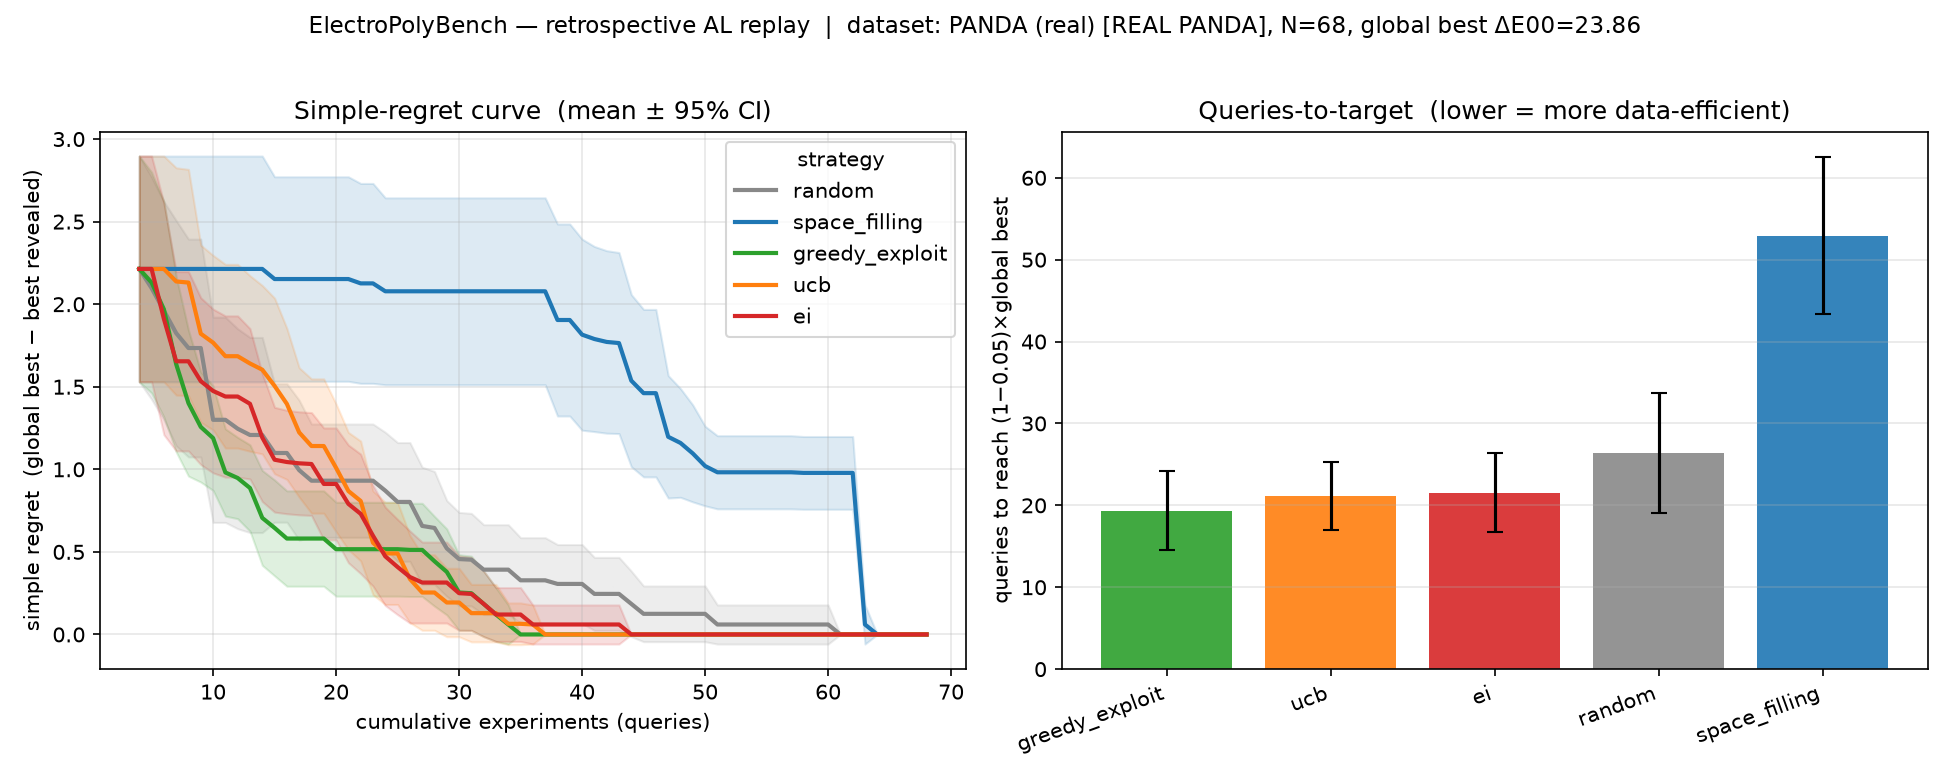
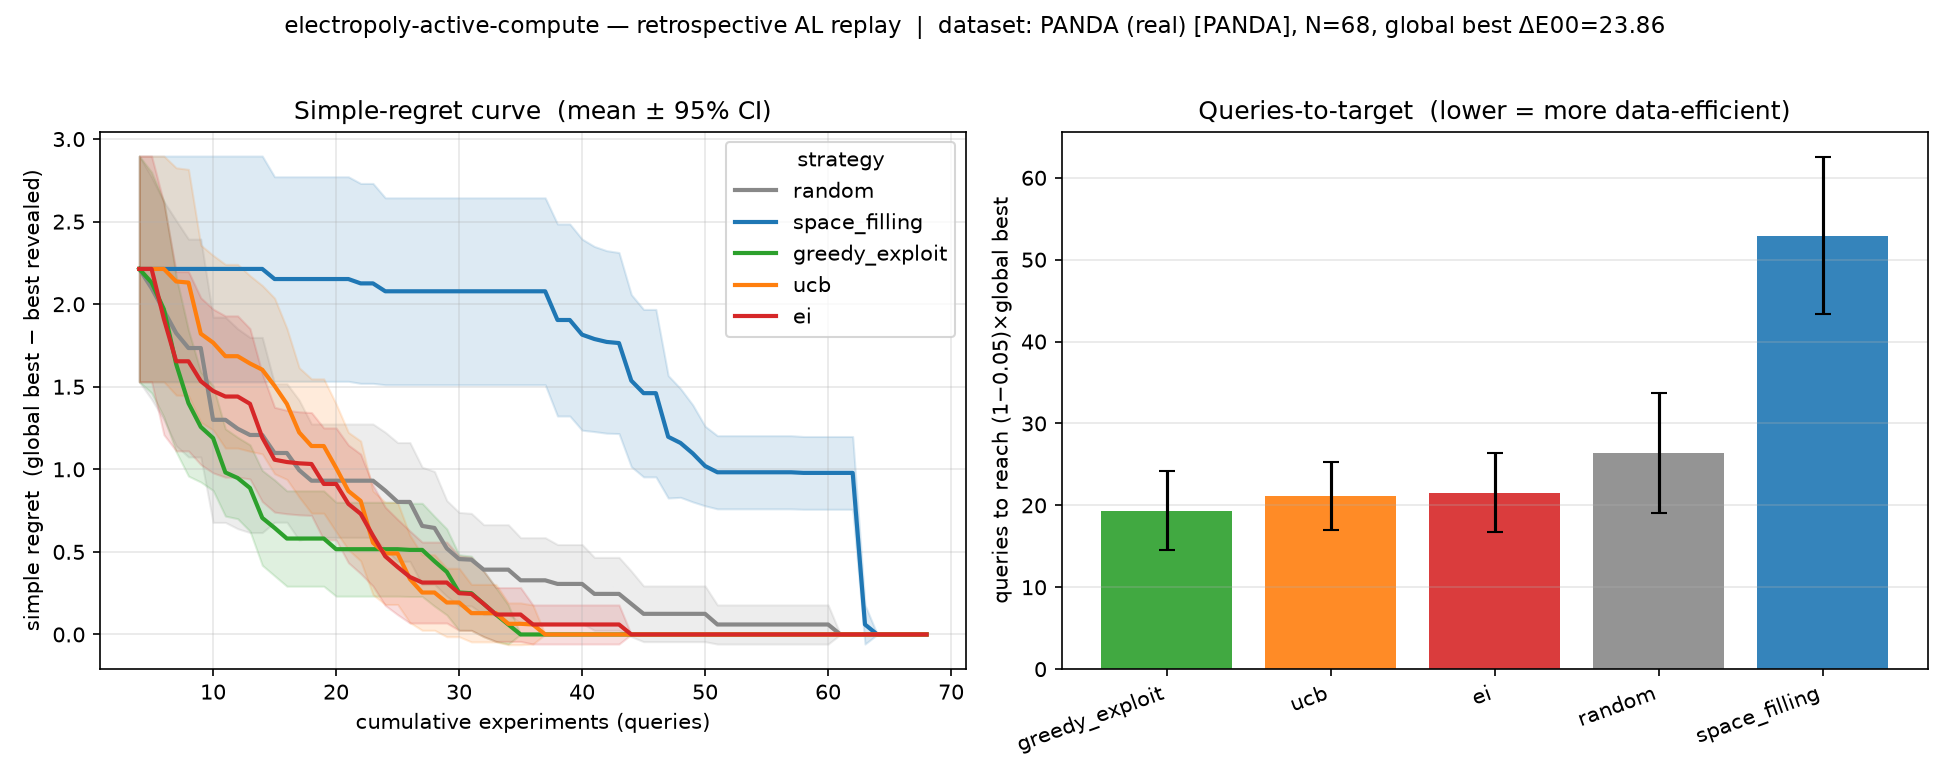
Synchronize renamed repository references

Changed region(s): [[0.1538, 0.0, 0.8615, 0.0615]]

diff --git a/experiments/run_panda_replay.py b/experiments/run_panda_replay.py
@@ -153,7 +153,7 @@ def plot_headline(long_df, summary, global_best, info, out_png, eps=0.05):
     plt.setp(ax_right.get_xticklabels(), rotation=20, ha="right")
 
     tag = "PANDA" if info["is_real"] else "SYNTHETIC"
-    fig.suptitle(f"ElectroPolyBench — retrospective AL replay  |  dataset: {info['name']} "
+    fig.suptitle(f"electropoly-active-compute — retrospective AL replay  |  dataset: {info['name']} "
                  f"[{tag}], N={info['n']}, global best ΔE00={global_best:.2f}",
                  fontsize=11)
     fig.tight_layout(rect=[0, 0, 1, 0.96])

diff --git a/src/electropolybench/__init__.py b/src/electropolybench/__init__.py
@@ -1,4 +1,4 @@
-"""ElectroPolyBench: retrospective active-learning replay for electropolymerization experiments."""
+"""electropoly-active-compute: retrospective active-learning replay for electropolymerization experiments."""
 
 from . import acquisitions, metrics, replay, surrogates
 

diff --git a/data/__init__.py b/data/__init__.py
@@ -1,4 +1,4 @@
-"""Dataset loaders for ElectroPolyBench."""
+"""Dataset loaders for electropoly-active-compute."""
 
 from .loaders import (
     INPUT_COLUMNS,

diff --git a/data/loaders.py b/data/loaders.py
@@ -1,4 +1,4 @@
-"""Dataset loaders for ElectroPolyBench.
+"""Dataset loaders for electropoly-active-compute.
 
 Available sources:
 

diff --git a/THINK.md b/THINK.md
@@ -7,7 +7,7 @@ judgment, a tradeoff, or a sign-off — NOT routine engineering debt (those stay
 Entries are opened, updated as thinking evolves, and marked `decided`/`parked` with a resolution;
 this file is neither a snapshot nor append-only.
 
-_Last updated: 2026-06-19 (v1 seed session)_
+_Research entries: 2026-06-19; repository names and navigation updated 2026-11-13._
 
 ## How to read this
 
@@ -23,7 +23,7 @@ resolution is.
 | T3 | Pool replay measures the wrong optimum (measured pool vs continuous surface) | open | self (rigor) | conceptual |
 | T4 | Which datasets to add for v2 | open | group-meeting | lit/data-curation |
 | T5 | sklearn GP now vs BoTorch/Ax (principled + multi-objective BO) | exploring (staged) | group-meeting | compute/eng |
-| T6 | Multi-fidelity low-fidelity layer — GATED on CombHTS xTB→DFT Fit-1 R² | parked (gated) | PI sign-off | compute-heavy |
+| T6 | Multi-fidelity low-fidelity layer — GATED on electropoly-jointopt-hts xTB→DFT Fit-1 R² | parked (gated) | PI sign-off | compute-heavy |
 | T7 | Is a GP well-posed on a 4-point seed? surrogate choice for tiny data | open | self (rigor) | one compute sweep |
 | T8 | Is space_filling a fair baseline, or a strawman? | exploring | group-meeting | scope/policy |
 
@@ -46,7 +46,7 @@ resolution is.
   AL-vs-baseline as the only durable v1 claim.
 - **Resolves when**: a seed/restart sweep is run and STATUS/README state the ranking only at the
   resolution the CIs actually support.
-- **Links**: [STATUS open debt #5](STATUS.md#open-debts); [experiments/run_panda_replay.py](experiments/run_panda_replay.py).
+- **Links**: [Archived status debt #5](docs/history/status-before-2026-11-11.md#open-debts); [experiments/run_panda_replay.py](experiments/run_panda_replay.py).
 
 ## T2 — What "queries-to-target" should target
 - **Status**: exploring
@@ -97,7 +97,7 @@ resolution is.
   queries-to-target as continuous-surface regret.
 - **Resolves when**: the caveat is documented (done in STATUS) AND the LHS-only-vs-full-pool
   control is run to bound the AL-collected-pool selection effect.
-- **Links**: [STATUS scientific caution](STATUS.md#scientific-caution); [data/loaders.py](data/loaders.py) (the `source` column distinguishes training/LHS vs AL points).
+- **Links**: [Archived scientific caution](docs/history/status-before-2026-11-11.md#scientific-caution); [data/loaders.py](data/loaders.py) (the `source` column distinguishes training/LHS vs AL points).
 
 ## T4 — Which datasets to add for v2
 - **Status**: open
@@ -119,7 +119,7 @@ resolution is.
   REAL on-domain point; keep PANDA as the flagship real dataset.
 - **Resolves when**: the group confirms the 2nd/3rd datasets and their order, and each lands as a
   loader with documented provenance.
-- **Links**: [STATUS open debt #1](STATUS.md#open-debts); [README v2 roadmap](README.md#v2-roadmap).
+- **Links**: [Archived status debt #1](docs/history/status-before-2026-11-11.md#open-debts); [Current remaining work](STATUS.md#remaining-work).
 
 ## T5 — sklearn GP now vs BoTorch/Ax (principled + multi-objective BO)
 - **Status**: exploring (staged: sklearn now, BoTorch later)
@@ -141,9 +141,11 @@ resolution is.
   opt-in, justified primarily by multi-objective / multi-fidelity, not by single-objective AL.
 - **Resolves when**: the group agrees BoTorch is warranted (i.e. the multi-objective question is
   in scope) and the BoTorch path first reproduces the sklearn single-objective result.
-- **Links**: [STATUS open debt #2](STATUS.md#open-debts); [pyproject.toml](pyproject.toml) (`[project.optional-dependencies] v2`); [T6](#t6--multi-fidelity-low-fidelity-layer--gated-on-combhts-xtbdft-fit-1-r).
+- **Links**: [Archived status debt #2](docs/history/status-before-2026-11-11.md#open-debts); [pyproject.toml](pyproject.toml) (current optional dependencies; the proposed `v2` extra is not implemented); [T6](#t6-multi-fidelity-gate).
 
-## T6 — Multi-fidelity low-fidelity layer — GATED on CombHTS xTB→DFT Fit-1 R²
+<a id="t6-multi-fidelity-gate"></a>
+
+## T6 — Multi-fidelity low-fidelity layer — GATED on electropoly-jointopt-hts xTB→DFT Fit-1 R²
 - **Status**: parked (gated on an external result)
 - **Forum**: PI sign-off
 - **Cost**: compute-heavy
@@ -151,20 +153,20 @@ resolution is.
   OMG-pretrained features, or a cheap computed descriptor — used to triage before the expensive
   experiment), and is it worth the engineering?
 - **Why it matters**: Multi-fidelity AL only pays off if the cheap fidelity actually predicts the
-  expensive one. That is exactly the question the SIBLING project CombHTS answers for
+  expensive one. That is exactly the question the SIBLING project electropoly-jointopt-hts answers for
   electropolymerization via its two-stage calibration: Fit-1 is xTB→DFT. If cheap xTB does NOT
   predict DFT well there (low Fit-1 R²), a multi-fidelity layer HERE is built on sand and should
   not be funded; if Fit-1 R² is high, the analogous low-fidelity→high-fidelity triage is
   promising and worth porting.
 - **Thinking / options**: This is a deliberate cross-project gate, not an internal one. DECISION
-  RULE: do not start the multi-fidelity layer until the CombHTS xTB→DFT Fit-1 R² is known from
+  RULE: do not start the multi-fidelity layer until the electropoly-jointopt-hts xTB→DFT Fit-1 R² is known from
   its live g16 DFT-calibration batch; treat that R² as the go/no-go evidence. (As of 2026-06-19
-  the CombHTS live batch is still running — see CombHTS STATUS/THINK T4 — so this stays parked.)
-- **Current lean**: parked until the CombHTS Fit-1 R² lands; then PI decides go/no-go on the
+  the electropoly-jointopt-hts live batch is still running — see electropoly-jointopt-hts STATUS/THINK T4 — so this stays parked.)
+- **Current lean**: parked until the electropoly-jointopt-hts Fit-1 R² lands; then PI decides go/no-go on the
   multi-fidelity layer based on that R².
-- **Resolves when**: the CombHTS xTB→DFT Fit-1 R² is reported and the PI signs off on whether to
+- **Resolves when**: the electropoly-jointopt-hts xTB→DFT Fit-1 R² is reported and the PI signs off on whether to
   build the multi-fidelity layer.
-- **Links**: [STATUS open debt #4](STATUS.md#open-debts); [README v2 roadmap](README.md#v2-roadmap); CombHTS THINK T4 (the xTB→DFT calibration that supplies the gating R²); [T5](#t5--sklearn-gp-now-vs-botorchax-principled--multi-objective-bo).
+- **Links**: [Archived status debt #4](docs/history/status-before-2026-11-11.md#open-debts); [Current remaining work](STATUS.md#remaining-work); [electropoly-jointopt-hts calibration record](https://github.com/Caesiumatic/electropoly-jointopt-hts/blob/main/docs/runs/2026-06-19_dftcal-417442-gasphase.md) (the xTB→DFT calibration that supplies the gating R²); [T5](#t5--sklearn-gp-now-vs-botorchax-principled--multi-objective-bo).
 
 ## T7 — Is a GP well-posed on a 4-point seed? surrogate choice for tiny data
 - **Status**: open
@@ -209,7 +211,7 @@ resolution is.
   the baseline of record; add a space-filling-seed→AL variant in v2 to avoid the strawman reading.
 - **Resolves when**: the group agrees which baseline is the headline comparator and the two-phase
   variant is added (or explicitly declined).
-- **Links**: [STATUS open debt #6](STATUS.md#open-debts); [src/electropolybench/acquisitions.py](src/electropolybench/acquisitions.py).
+- **Links**: [Archived status debt #6](docs/history/status-before-2026-11-11.md#open-debts); [src/electropolybench/acquisitions.py](src/electropolybench/acquisitions.py).
 
 ## Decision log
 

diff --git a/STATUS.md b/STATUS.md
@@ -5,7 +5,7 @@
 The replay package compares five acquisition strategies through shared GP and
 random-forest surrogate interfaces. The recorded PANDA comparison covers 68
 measured conditions, 20 restarts, and four initial observations. Its CSVs and
-figure are preserved in `results/`.
+figure are available in `results/`.
 
 New runs select PANDA or synthetic data explicitly and write to separate run
 directories. Each run records its input CSV, SHA-256, settings, per-step
@@ -15,7 +15,22 @@ The [README](README.md) presents the method and recorded query-efficiency
 comparison. [The experiment guide](docs/experiments.md) documents setup, options,
 outputs, confidence intervals, and source entry points.
 
-## Documentation verification — 2026-11-13
+## Repository name synchronization — 2026-11-13
+
+- Updated the README introduction, module descriptions, contributor display name,
+  and plot heading to `electropoly-active-compute`. Python imports and the package
+  distribution name remain `electropolybench`.
+- Updated the sibling-project references and repaired research-note navigation;
+  the multi-fidelity decision remains parked.
+- Regenerated the README figure with `plot_headline` in
+  `experiments/run_panda_replay.py` from `results/replay_results.csv` and
+  `results/queries_to_target_summary.csv`. Its source data,
+  strategy summaries, and uncertainty calculations are unchanged; no replay or
+  laboratory experiments were run.
+- Checked current documentation links, Python syntax, the figure layout, and
+  `git diff --check`. Old names remain in dated history and package paths.
+
+## Documentation verification — 2026-11-13 (earlier revision)
 
 - Renamed the repository to `electropoly-active-compute` and updated the README
   title; the Python package remains `electropolybench`.

diff --git a/CHANGELOG.md b/CHANGELOG.md
@@ -1,5 +1,11 @@
 # Changelog
 
+## 2026-11-13 — repository name synchronization
+
+- Updated the README introduction, module descriptions, contributor display name, and plot heading to `electropoly-active-compute`, while retaining the `electropolybench` package and import paths.
+- Updated sibling-project references to `electropoly-jointopt-hts` and repaired stale research-note anchors; research decisions remain unchanged.
+- Regenerated the README figure with `experiments/run_panda_replay.py::plot_headline` from the unchanged `results/replay_results.csv` and `results/queries_to_target_summary.csv`; no experiments were rerun. Checked documentation links, Python syntax, figure layout, and whitespace.
+
 ## 2026-11-13 — repository rename
 
 - Renamed `Caesiumatic/ElectroPolyBench` to `Caesiumatic/electropoly-active-compute` and updated the README and status titles. Package imports and experiment records retain their existing names.

diff --git a/README.md b/README.md
@@ -1,6 +1,6 @@
 # electropoly-active-compute
 
-ElectroPolyBench measures how many experiments a query strategy needs to find
+electropoly-active-compute measures how many experiments a query strategy needs to find
 high-performing electropolymerization conditions. It replays a completed
 experimental campaign as a fixed pool, giving each strategy access to the same
 measured outcomes one observation at a time.

diff --git a/docs/experiments.md b/docs/experiments.md
@@ -4,9 +4,11 @@
 
 ## Setup
 
-Use Python 3.9 or later. Run these commands from the repository root:
+Use Python 3.9 or later. Clone the repository and install its dependencies:
 
 ```bash
+git clone https://github.com/Caesiumatic/electropoly-active-compute.git
+cd electropoly-active-compute
 python -m pip install -e '.[dev]'
 python -m pytest -q
 ```
